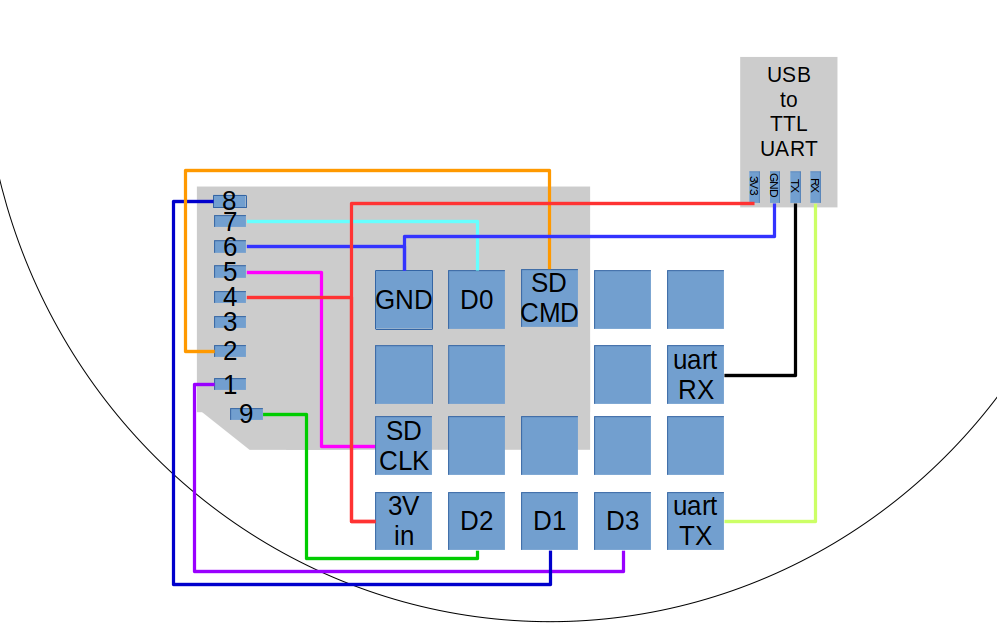
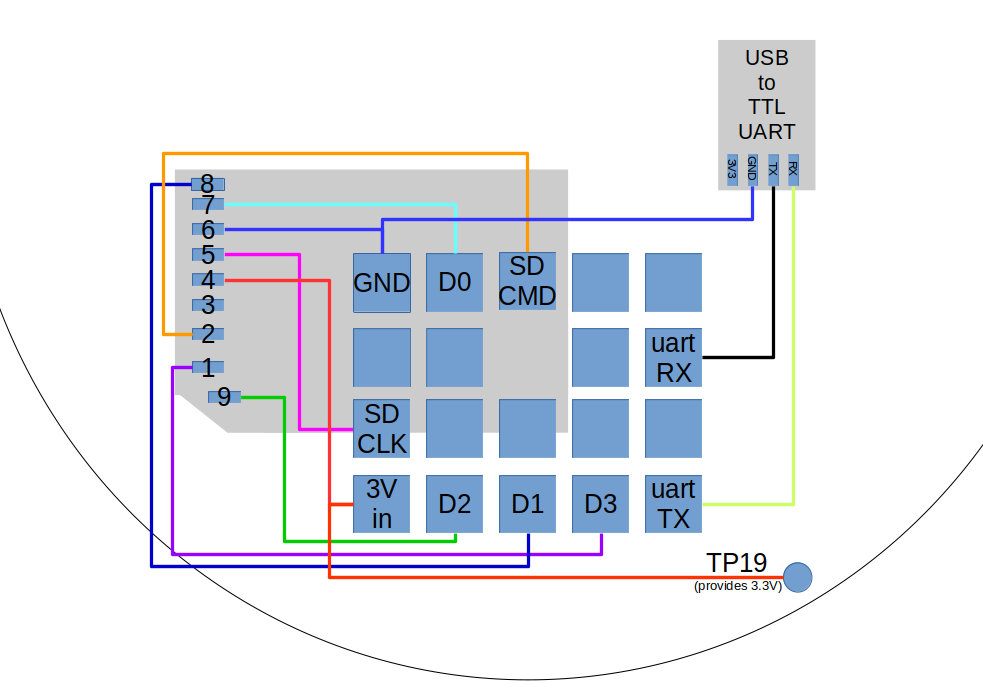
page: Update the circuit regarding TP19

diff --git a/page/CIRCUIT.md b/page/CIRCUIT.md
@@ -7,11 +7,13 @@ And yes, you need a soldering iron. It's possible to avoid it, but that makes th
 For connecting the Echo itself you can go with pogo-pins and some 3D printing, or be on the safe side and solder wires on it as well.
 
 ## The circuit
-That's how I did it:
+That's how it could be done, just note that you also can power the microSD from another source like the 3.3V of a USB to UART converter:
 
 ![Wiring the Echo][wiring]
 
 The circle is supposed to mark the edge of the Echo when viewed from below.
+
+Thanks to Kent for discovering the 3.3V output on TP19!
 
 [dsun]: https://www.cpmspectrepi.uk/raspberry_pi/MoinMoinExport/USBtoTtlSerialAdapters.html
 
